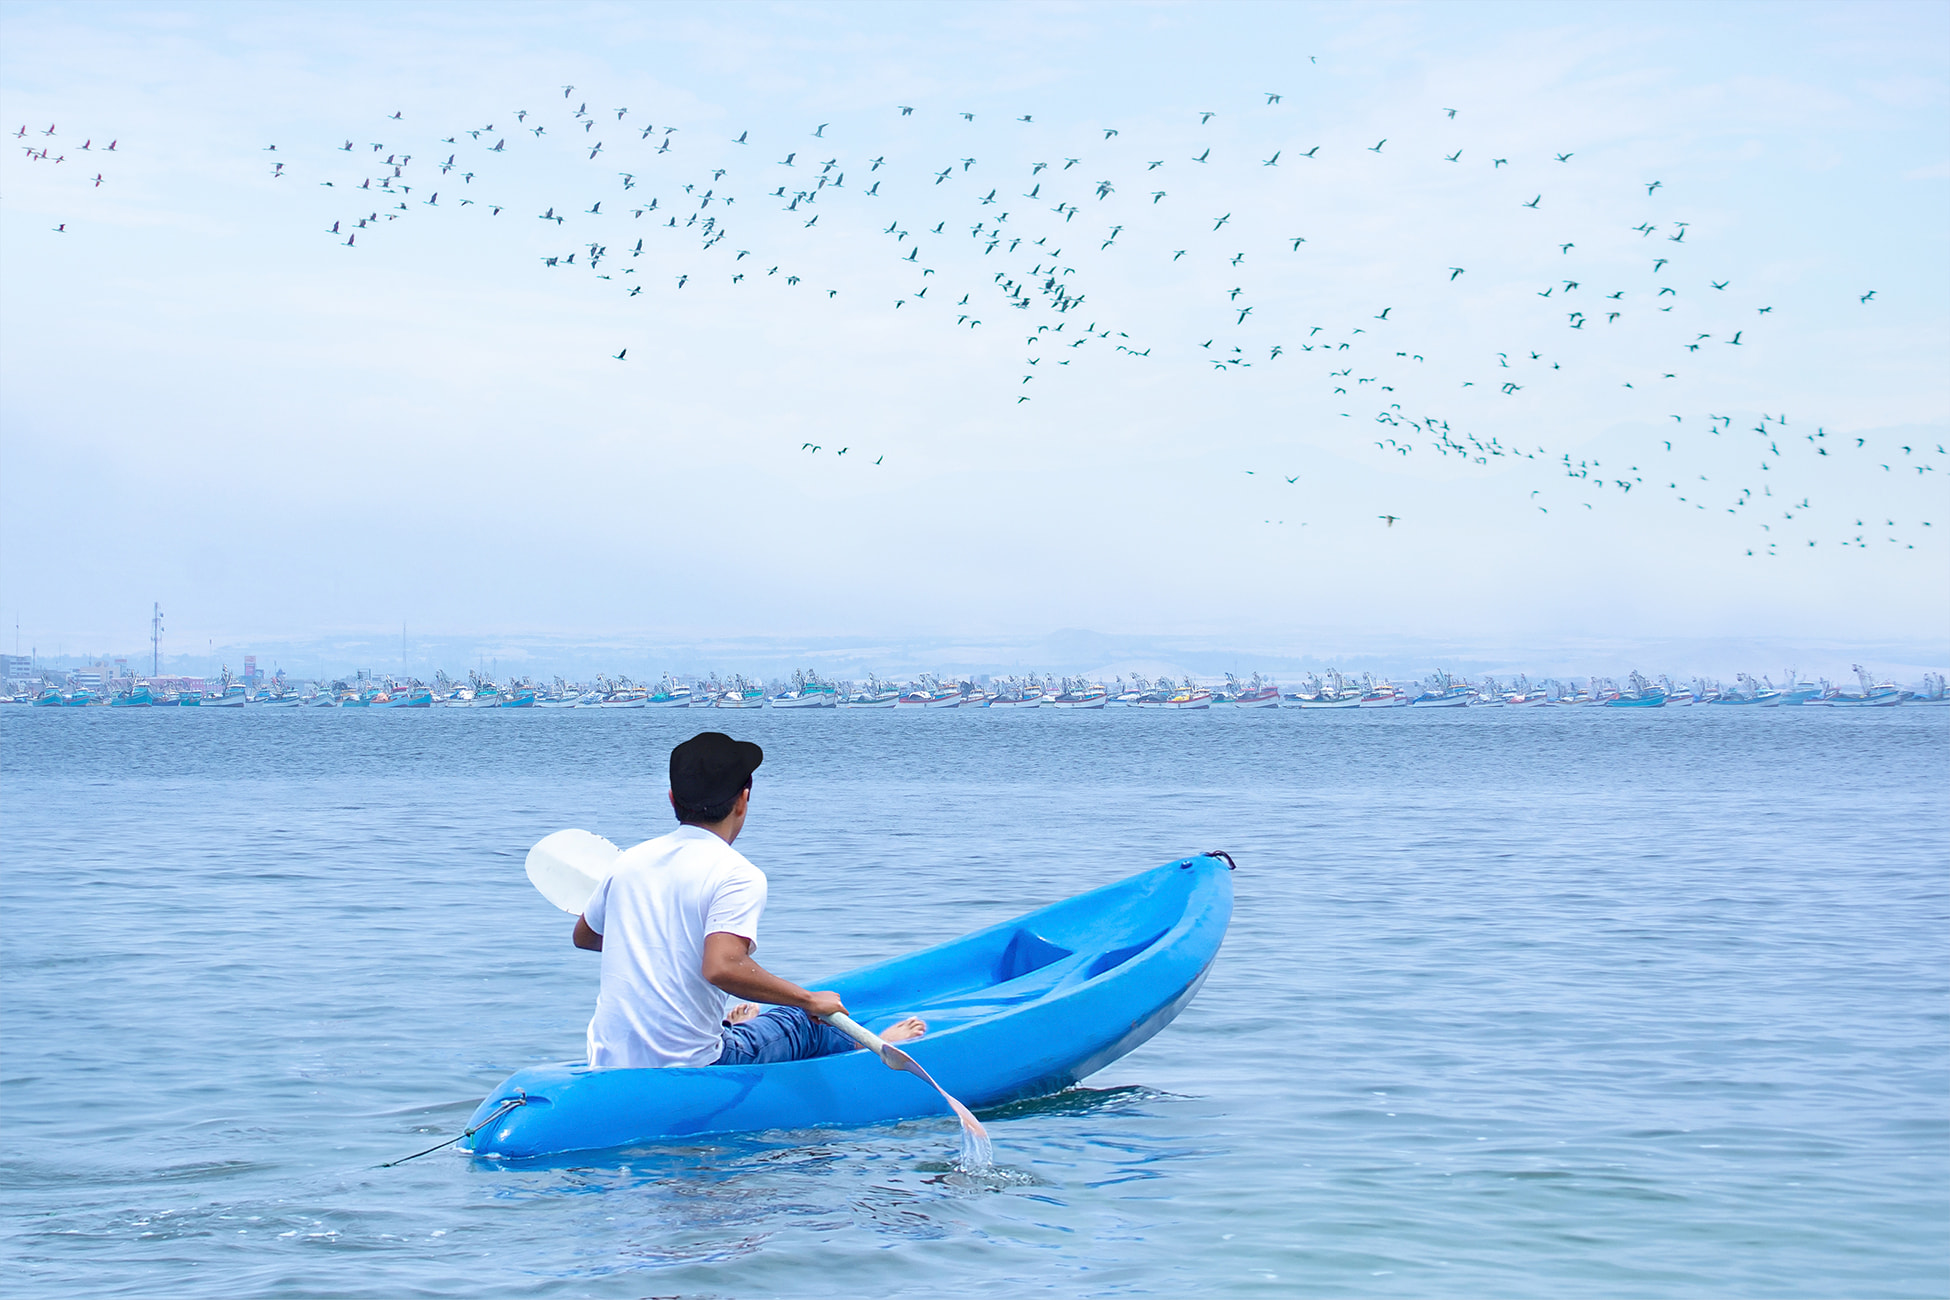
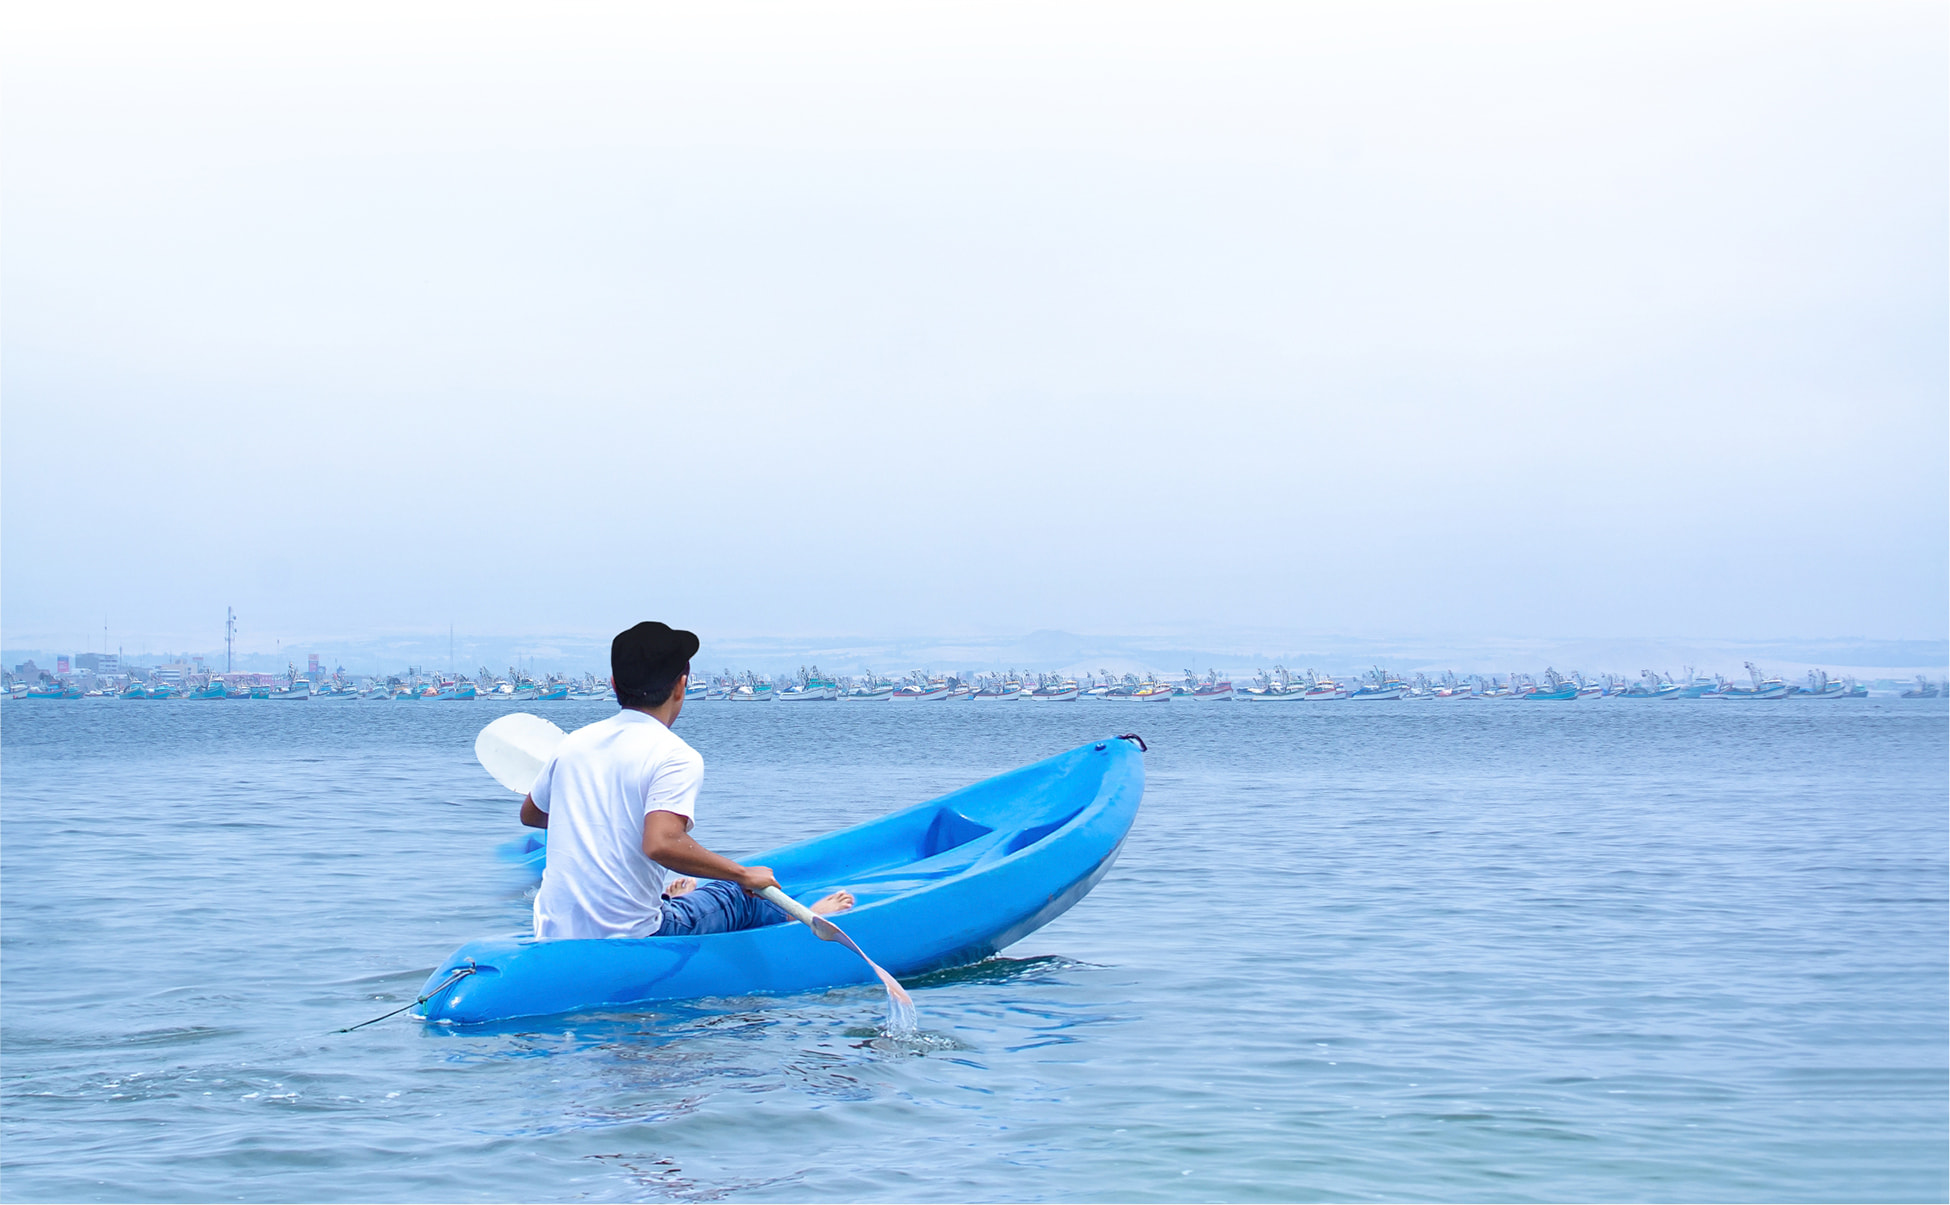
heading changes

diff --git a/src/components/Header.js b/src/components/Header.js
@@ -7,8 +7,8 @@ const { colors, fonts } = theme
 const Container = styled.header`
   position: relative;
   width: 100%; 
-  height: 130rem;
-  background: url('images/Practicando Kayak en Chimbote.jpg') no-repeat top;
+  height: 100vh;
+  background: url('images/Practicando Kayak en Chimbote.jpg') no-repeat center;
   background-size: cover;
 
   ${media.tablet`
@@ -17,7 +17,7 @@ const Container = styled.header`
 `
 
 const Heading = styled.div`
-  max-width: 80rem;
+  max-width: 65rem;
   position: absolute;
   top: 35%;
   left: 50%;
@@ -27,30 +27,11 @@ const Heading = styled.div`
   text-align: center;
 `
 
-const Title = styled.h1`
-  font-family: ${fonts.primary};
-  font-size: 12rem;
-  font-weight: 500;
-  line-height: 1;
-
-  ${media.netbook`
-    font-size: 8rem;
-  `}
-`
-
-const TagLine = styled.em`
-  font-size: 5.2rem;
-
-  ${media.netbook`
-    font-size: 4rem;
-  `}
-`
-
 const Description = styled.p`
-  font-size: 2.6rem;
-  font-weight: 500;
-  margin: 2.5rem 0;
-  line-height: 1.5;
+  font-size: 2.2rem;
+  margin-top: 3rem;
+  margin-bottom: 1.5rem;
+  line-height: 1.7;
 
   ${media.netbook`
     font-size: 2rem;
@@ -59,22 +40,25 @@ const Description = styled.p`
 
 const DownloadButton = styled.button`
   color: ${colors.red};
-  font-size: 2.6rem;
+  font-size: 2.3rem;
   background: transparent;
-  font-weight: 600;
   letter-spacing: -1px;
+  cursor: pointer;
 
   ${media.netbook`
     font-size: 2rem;
   `}
 `
 
+const Logo = styled.img`
+  width: 75%;
+`
+
 const Header = () => {
   return (
     <Container>
       <Heading>
-        <Title>Internautas</Title>
-        <TagLine>Tecnología Cultural</TagLine>
+        <Logo src="/images/internautas logo.png"/>
         <Description>Nuevos tiempos de cambio empiezan a correr y nos inspiran a forjar un mundo vibrante de cultura, producción y turismo sostenible.</Description>
         <DownloadButton>Ver más +</DownloadButton>
       </Heading>

diff --git a/src/components/Nav.js b/src/components/Nav.js
@@ -37,12 +37,12 @@ const Hamburger = styled(GiHamburgerMenu)`
 
 const Icon = styled.img`
   display: block;
-  width: 2rem;
-  height: 2rem;
+  width: ${props => props.width};
+  height: ${props => props.height};
   margin: 0 2rem;
 
   ${media.tablet`
-    display: none; 
+    display: none;
   `}
 `
 
@@ -79,7 +79,7 @@ const Nav = () => {
 
   return (
     <Container>
-      <Icon src="/images/icon-on.png" alt="icon on"/>
+      <Icon src="/images/icon-on.png" alt="icon on" width='2rem' height='2rem'/>
       <NavItems active={active}>
         {navItems.map((item) => (
           <Item 
@@ -89,7 +89,7 @@ const Nav = () => {
           </Item>
         ))}
       </NavItems>
-      <Icon src="images/icon-whatsapp.png" alt="whatsapp icon"/>
+      <Icon src="images/icon-fb.png" alt="whatsapp icon" width="2.2rem" height="2.2rem"/>
       <Hamburger onClick={() => setActive(active => !active)}/>
     </Container>
   )
